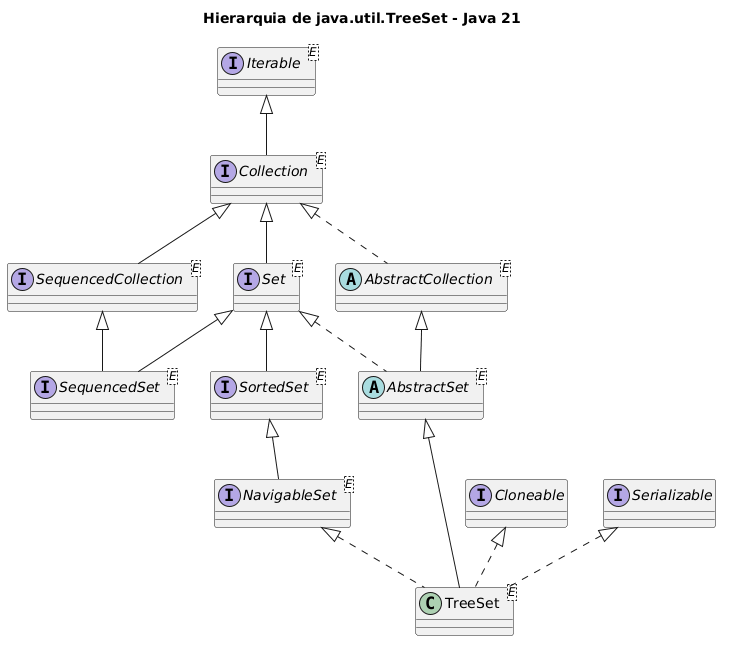
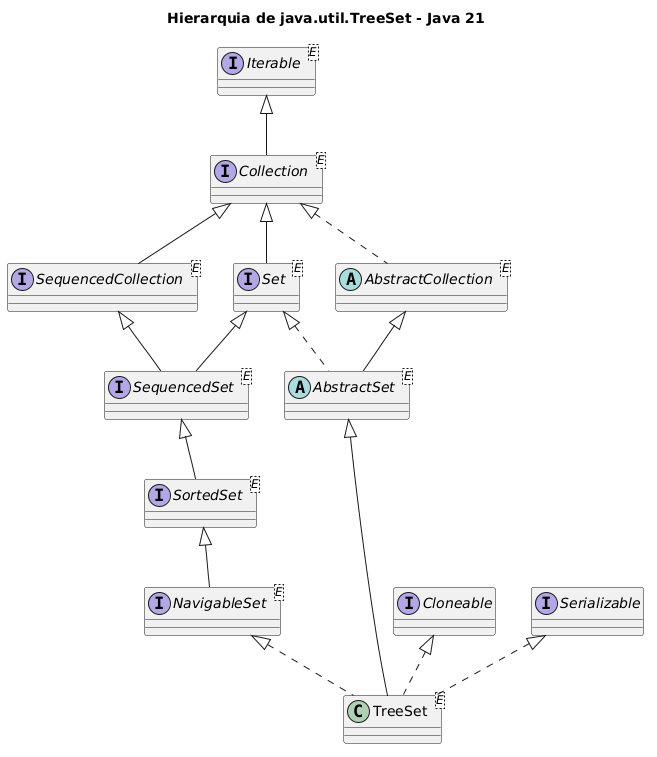
revisão

diff --git a/subjects/poo/lectures/11-collections.md b/subjects/poo/lectures/11-collections.md
@@ -71,7 +71,7 @@ www.linkedin.com/in/fabriciofsantana/
 
 **Arquitetura unificada**
 
-> O _Java Collections Framework_ é uma arquitetura formada que oferece estrutura de dados para organizar e manipular grupos de objetos independentemente dos detalhes de implementação.
+> O _Java Collections Framework_ é uma arquitetura unificada que oferece estruturas de dados e algoritmos para organizar e manipular grupos de objetos independentemente dos detalhes de implementação.
 
 **Organização**
 
@@ -240,7 +240,7 @@ Implementações concretas de `List`, `Queue`, `Deque` e `Set`
     </tr>
     <tr>
       <td><code>TreeSet</code></td>
-      <td><code>SortedSet</code></td>
+      <td><code>NavigableSet</code></td>
       <td>Conjunto ordenado, normalmente pela ordem natural dos elementos ou por um comparador.</td>
     </tr>
   </tbody>
@@ -277,11 +277,30 @@ Implementações concretas de `Map`
     </tr>
     <tr>
       <td><code>TreeMap</code></td>
-      <td><code>SortedMap</code></td>
+      <td><code>NavigableMap</code></td>
       <td>Mapa ordenado pelas chaves, usando ordem natural ou um comparador.</td>
     </tr>
   </tbody>
 </table>
+
+---
+
+<!-- _class: compact -->
+
+# _Java Collections Framework_: fora do escopo
+
+Esta aula cobre as interfaces centrais, implementações de uso geral e algoritmos de `Collections`.
+
+Também existem outras implementações importantes:
+
+- **Legadas:** `Vector` e `Hashtable`
+  - foram adaptadas para as interfaces do framework;
+  - aparecem em bases antigas, mas não são a escolha padrão para código novo.
+- **Especializadas:** `EnumSet`, `EnumMap`, `WeakHashMap` e `IdentityHashMap`
+  - resolvem problemas específicos;
+  - ficam fora do escopo desta aula introdutória.
+- **Concorrentes:** coleções do pacote `java.util.concurrent`
+  - serão apenas contextualizadas.
 
 ---
 
@@ -1343,8 +1362,8 @@ Comparator<Aluno> porNotaDesc =
 - Fila baseada em prioridade
 - Implementa `Queue`
 - Mantém a cabeça da fila conforme ordem natural ou `Comparator`
-- A cabeça da fila é o elemento de maior prioridade
-  - na ordem natural, é o menor elemento
+- A cabeça da fila é o menor elemento segundo a ordenação definida
+  - essa ordenação pode representar a prioridade do problema
 - A iteração não garante percorrer em ordem de prioridade
 - Não permite valores `null`
 - Não é _thread-safe_
@@ -3704,6 +3723,8 @@ Coleções usadas por várias threads exigem cuidado.
 Interfaces e classes específicas ajudam nesse cenário:
 
 - `BlockingQueue`
+- `TransferQueue`
+- `BlockingDeque`
 - `ConcurrentMap`
 - `ConcurrentNavigableMap`
 - `CopyOnWriteArrayList`
